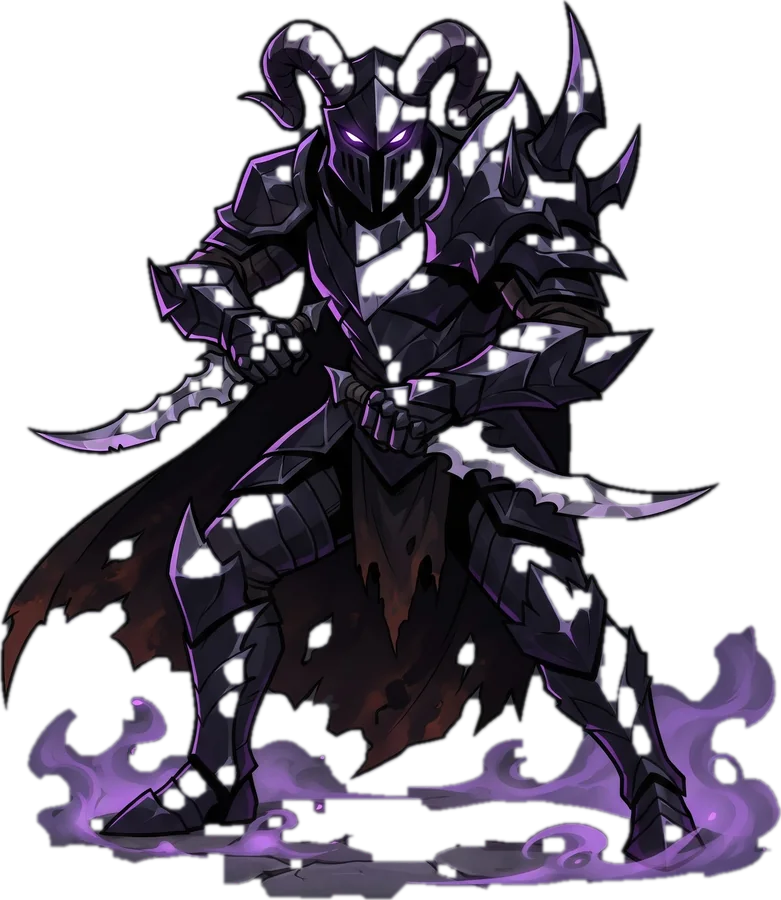
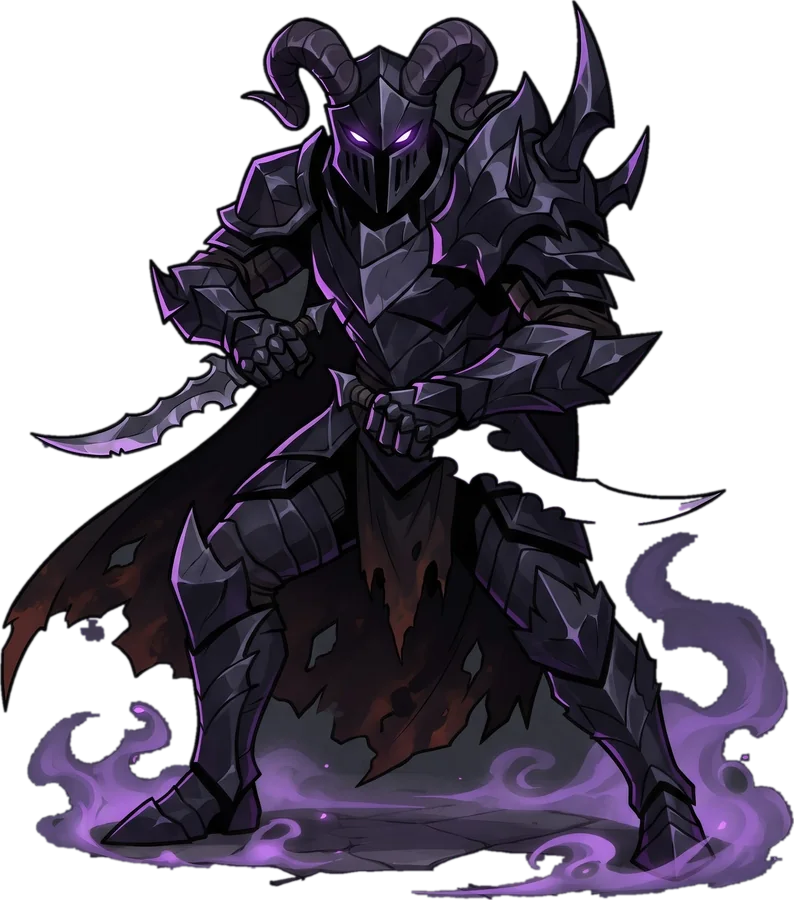
Fix Vex full-body cutout (no transparent holes in armor)
Claude-Session: https://claude.ai/code/session_01QZSVJshXKkHxSEyYRkjjqW

diff --git a/index.html b/index.html
@@ -4,7 +4,7 @@
 <meta charset="utf-8">
 <meta name="viewport" content="width=device-width,initial-scale=1,user-scalable=no">
 <title>Orb Spire</title>
-<link rel="stylesheet" href="css/orbspire.css?v=202611261552">
+<link rel="stylesheet" href="css/orbspire.css?v=202611260757">
 </head>
 <body>
 <div id="app">
@@ -22,8 +22,8 @@
   <div id="splash"></div>
   <div class="sheet" id="sheet"><div class="box" id="box"></div></div>
 </div>
-<script src="js/data.js?v=202611261552"></script>
-<script src="js/orbspire.js?v=202611261552"></script>
-<script>if("serviceWorker"in navigator)addEventListener("load",()=>navigator.serviceWorker.register("sw.js?v=202611261552").catch(()=>{}))</script>
+<script src="js/data.js?v=202611260757"></script>
+<script src="js/orbspire.js?v=202611260757"></script>
+<script>if("serviceWorker"in navigator)addEventListener("load",()=>navigator.serviceWorker.register("sw.js?v=202611260757").catch(()=>{}))</script>
 </body>
 </html>

diff --git a/sw.js b/sw.js
@@ -1,5 +1,5 @@
 /* Always fetch the newest files when online (skips the browser's 10-minute cache); fall back to the saved copy when offline. */
-const CACHE='orbspire-202611261552';
+const CACHE='orbspire-202611260757';
 self.addEventListener('install',()=>self.skipWaiting());
 self.addEventListener('activate',e=>e.waitUntil(caches.keys().then(k=>Promise.all(k.filter(n=>n!==CACHE).map(n=>caches.delete(n)))).then(()=>self.clients.claim())));
 self.addEventListener('fetch',e=>{
